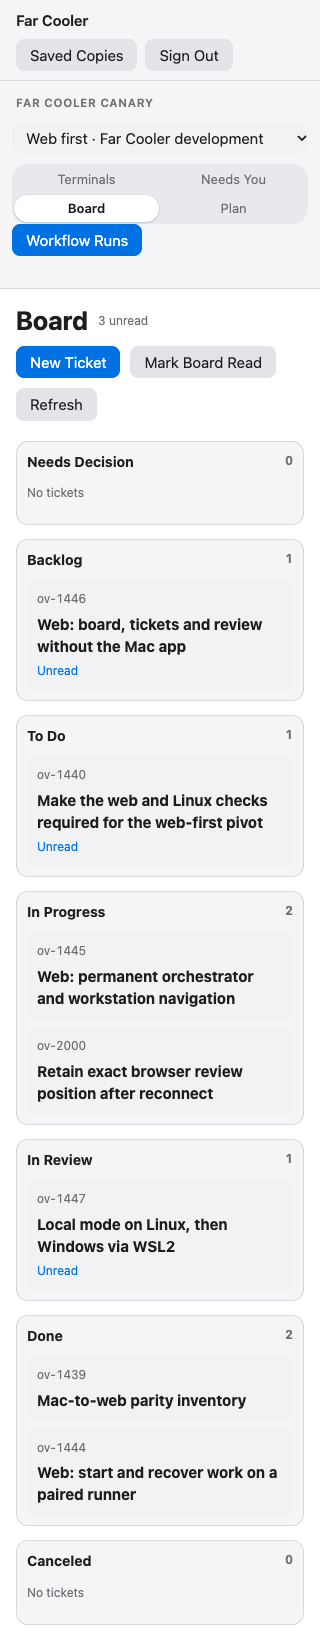
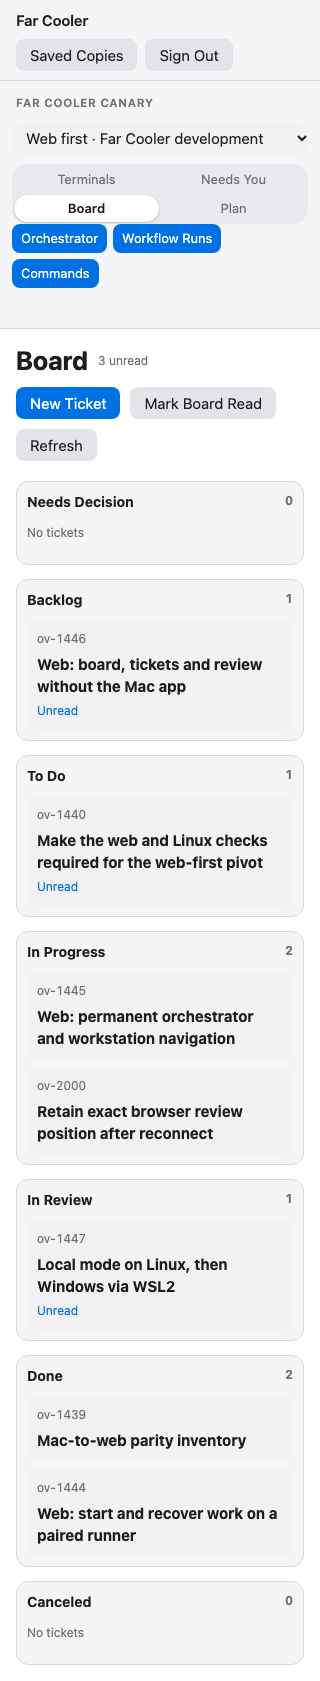
ov-1446 Keep the rebased web bundle within its download budget
(cherry picked from commit de4983eb313cbf367f72ebcd06bb10a67dfd8697)

diff --git a/services/web/src/client/app.ts b/services/web/src/client/app.ts
@@ -850,8 +850,9 @@ async function connectTo(session: Session, target: Granted): Promise<void> {
       : { space: chosenSpace, page: 'board', tab: 'board', boardTask: id }),
     openTicket: id => navigation?.navigate({ space: chosenSpace, page: 'board', tab: 'board', boardTask: id }),
     openAgent: async id => {
+      const route = navigation?.route
       await screen?.refresh()
-      paneControls?.open(id)
+      if (route === navigation?.route) paneControls?.open(id)
     },
     openWorktree: id => navigation?.navigate({ space: chosenSpace, page: 'terminals', tab: 'terminals', worktree: id }),
     openActivity: card => openCard(target.id, card),

diff --git a/services/web/test/browser/board-harness.ts b/services/web/test/browser/board-harness.ts
@@ -36,6 +36,9 @@ async function main(): Promise<void> {
   get('space-picker').hidden = false
   get('status').hidden = true
   get('work').hidden = false
+  get('terminal-list').hidden = true
+  get('show-orchestrator').textContent = 'Orchestrator'
+  get('show-commands').textContent = 'Commands'
   get('show-board').textContent = 'Board'
   get('show-board').removeAttribute('disabled')
   get('show-board').onclick = () => history.navigate(boardRoute())

diff --git a/services/web/src/client/work-screen.ts b/services/web/src/client/work-screen.ts
@@ -46,7 +46,6 @@ interface Selection {
   repository?: string | null
   worktree?: string | null
   terminal?: string | null
-  worktree?: string | null
   streamEnded?: boolean
 }
 
